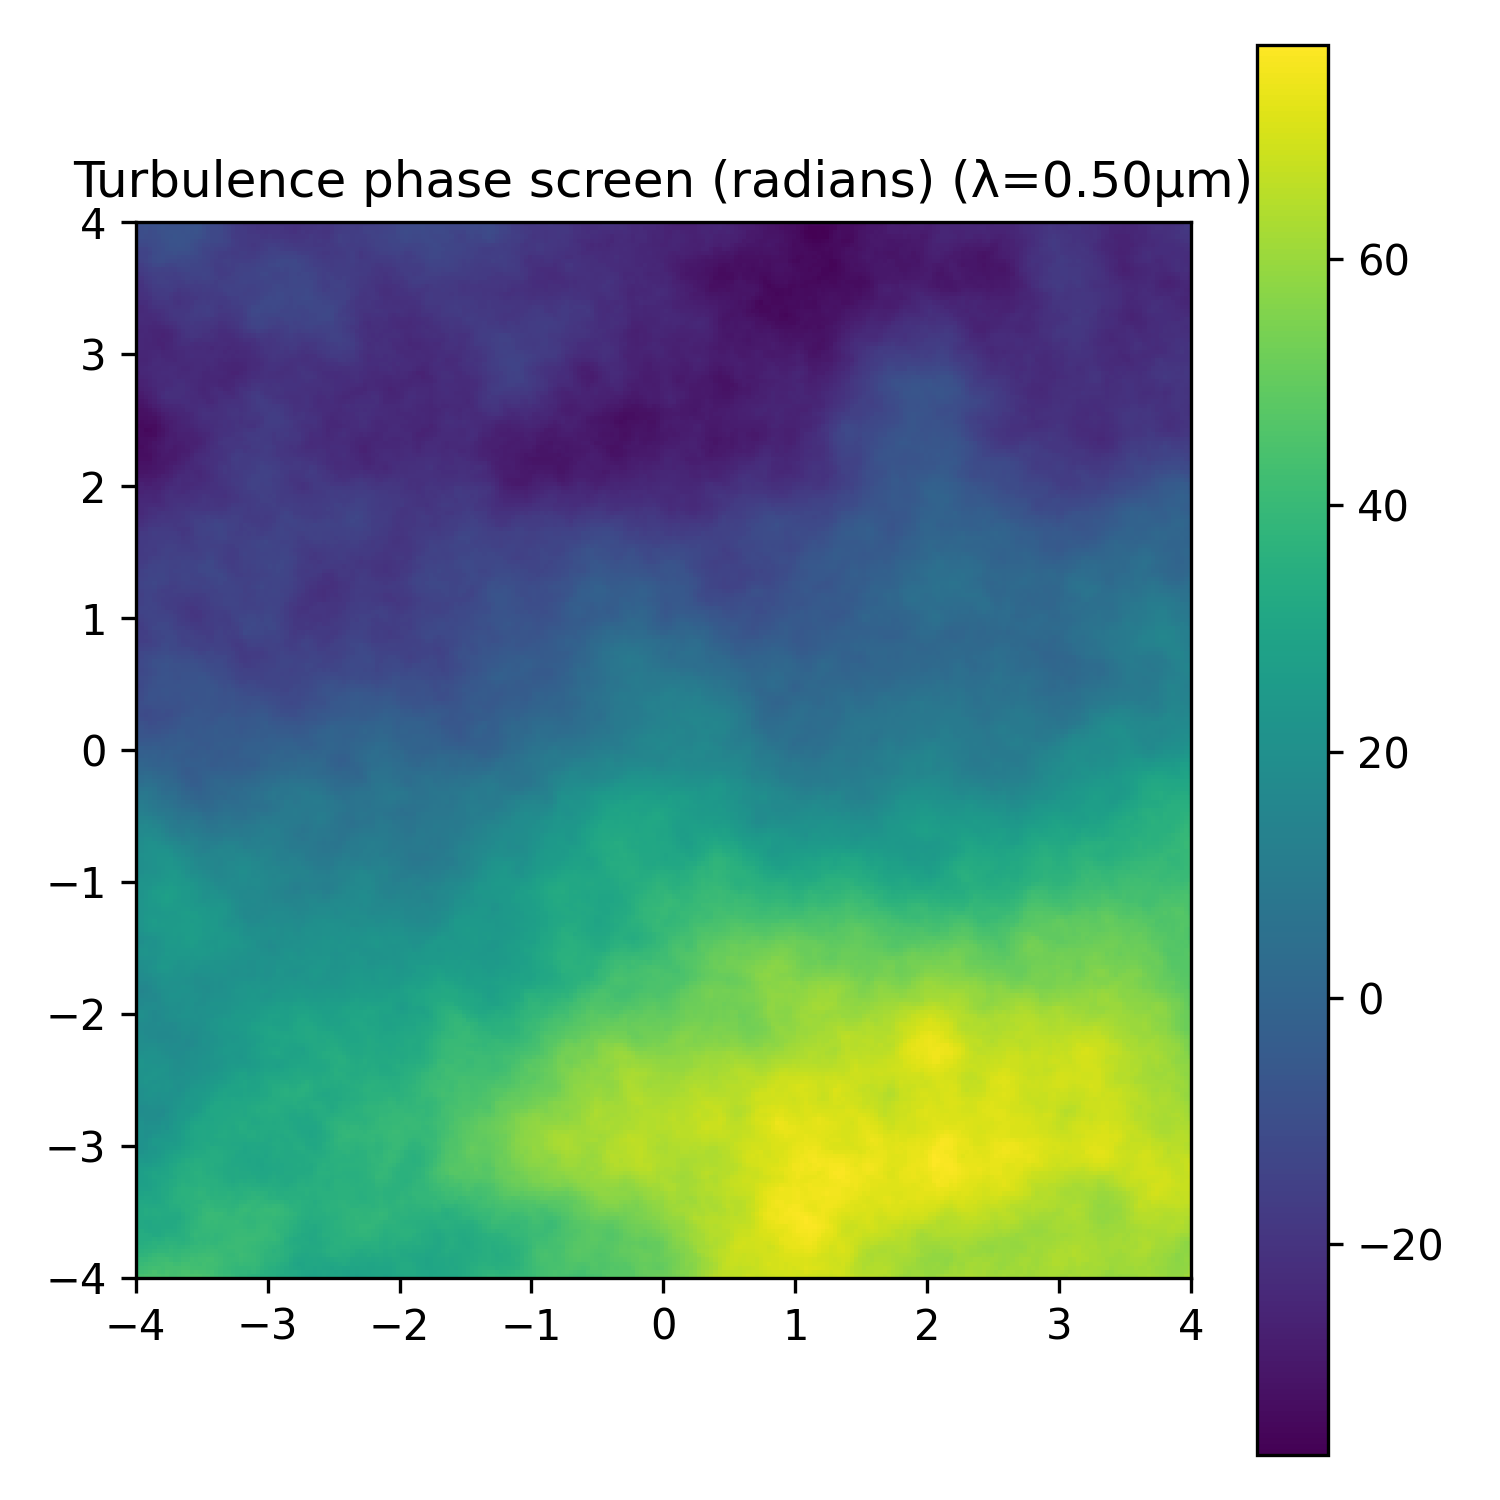
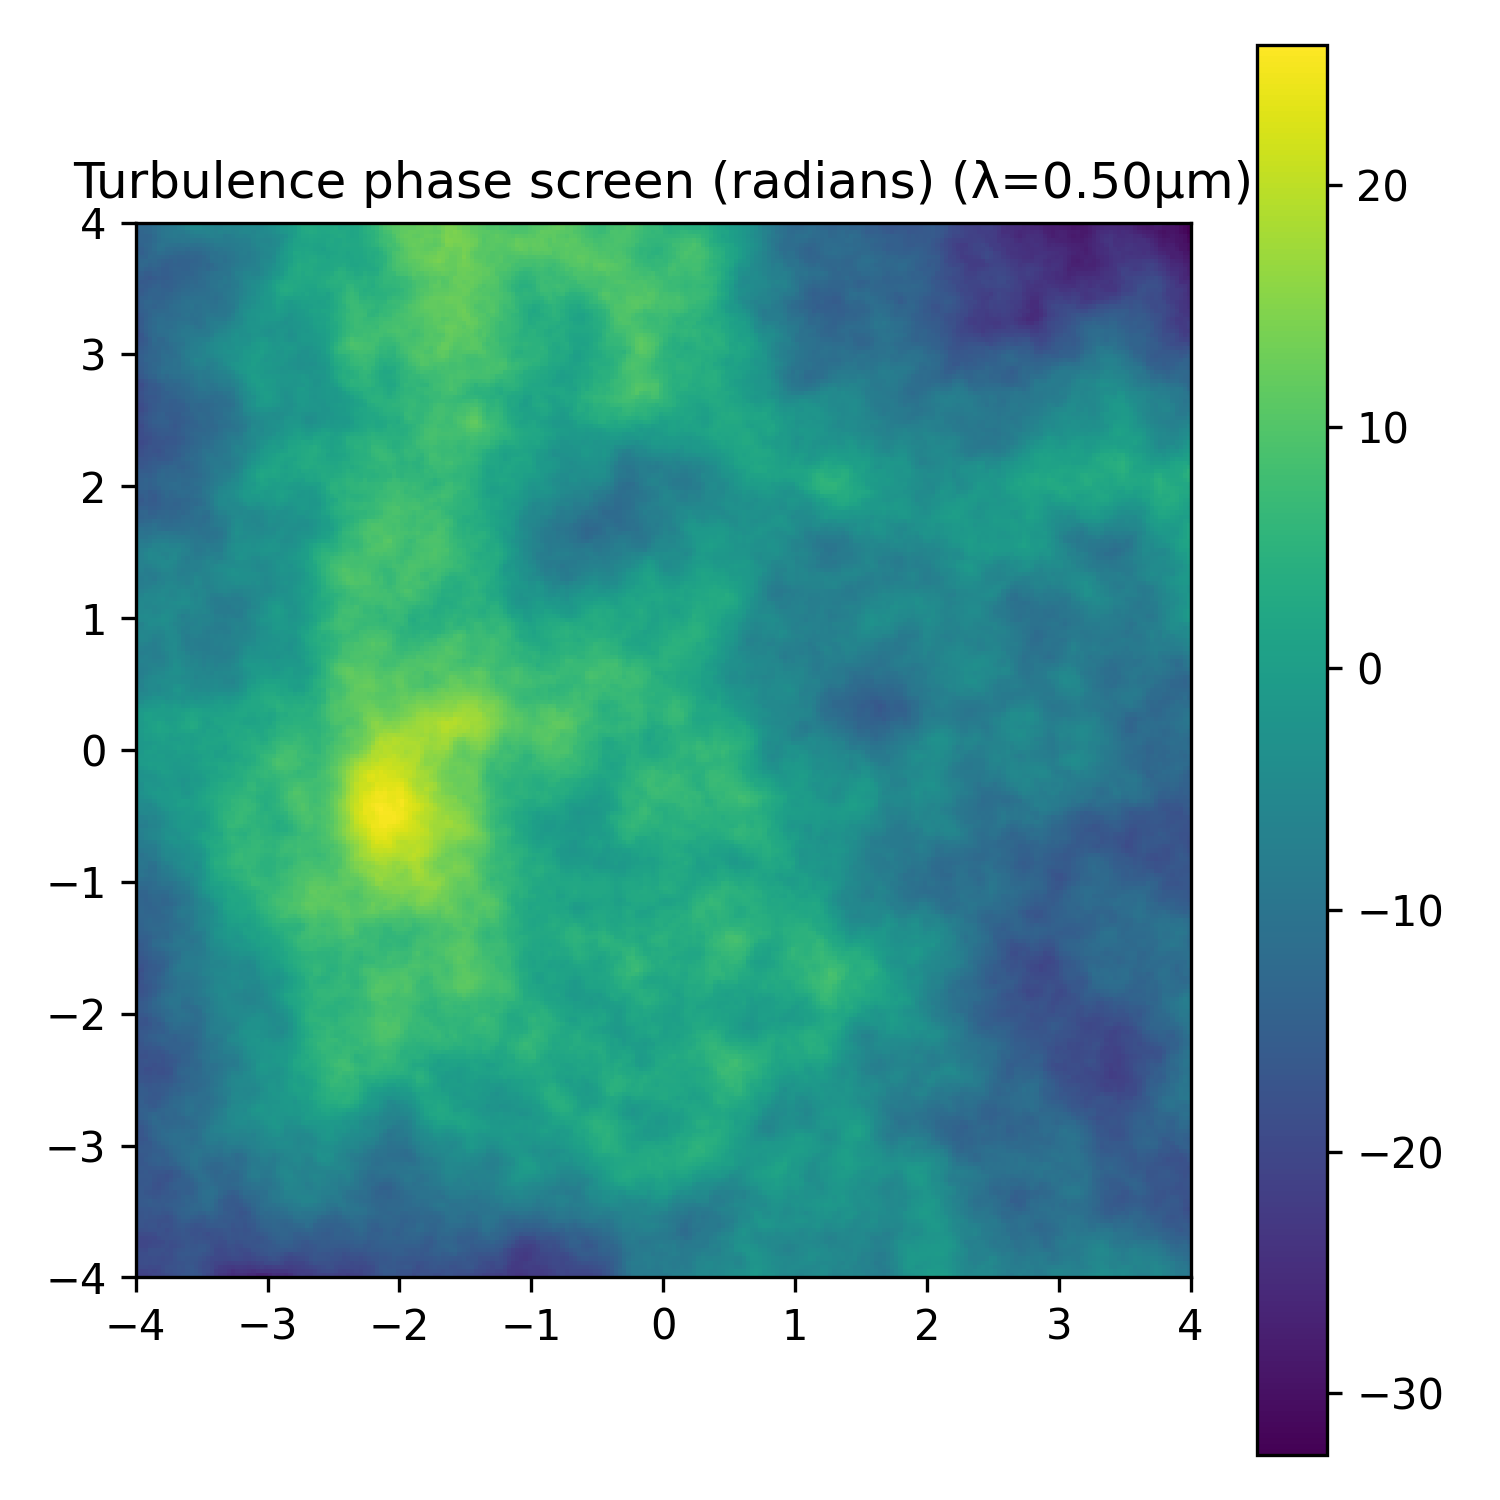
a lot of png

diff --git a/oct_2025/turblance_massive.py b/oct_2025/turblance_massive.py
@@ -13,13 +13,20 @@ path_for_run=(str(path_for_run)[0:len(str(path_for_run))-len(file_name)]+folder_
 #print(path_for_run=="/Users/idoshlomy/PycharmProjects/qkd/oct_2025/turblance.py")
 # runner.py (place next to turblance.py)
 
-RUNS = [0, 1, 2, 3, 4]  # edit as needed
-
+  # edit as needed
 code = open(path_for_run,"r", encoding="utf-8").read()
 code_obj = compile(code, "turblance.py", "exec")
+r0_list=[0.01, 0.03, 0.05, 0.07, 0.09, 0.11, 0.13, 0.15, 0.17, 0.19, 0.2] # example values for r0 in meters
+for wavelength in [1.55e-6, 0.500e-6] :
+    for r0 in r0_list :
+        for run_number in range(1, 5):
+            ns = {
+                "__name__": "__main__",
+                "__file__": str(path_for_run),   # so Path(__file__) works inside turblance.py
+                "run_number": run_number,
+                "wavelength": wavelength,
+                "r0": r0,  # example value for r0
+            }
 
-for run_number in RUNS:
-    ns = {"run_number": run_number, "__name__": "__main__"}
     print(f"\n=== run_number={run_number} ===")
-    exec(code_obj, ns, ns)
-
+    exec(code_obj, ns)  # fresh globals per run (no locals dict)

diff --git a/oct_2025/turblance.py b/oct_2025/turblance.py
@@ -31,7 +31,7 @@ except NameError:
 try:
     wavelength
 except NameError:
-    wavelength = 0.5e-6  # 1 micronx
+    wavelength = 1234e-7  # 1 micronx
 num_pupil_pixels = 256
 telescope_diameter = 8.0  # example for an 8-meter telescope like VLT
 

diff --git a/oct_2025/test.py b/oct_2025/test.py
@@ -1,0 +1,12 @@
+0.01
+0.03
+0.05
+0.07
+0.09
+0.11
+0.13
+0.15
+0.17
+0.19
+0.2
+]
